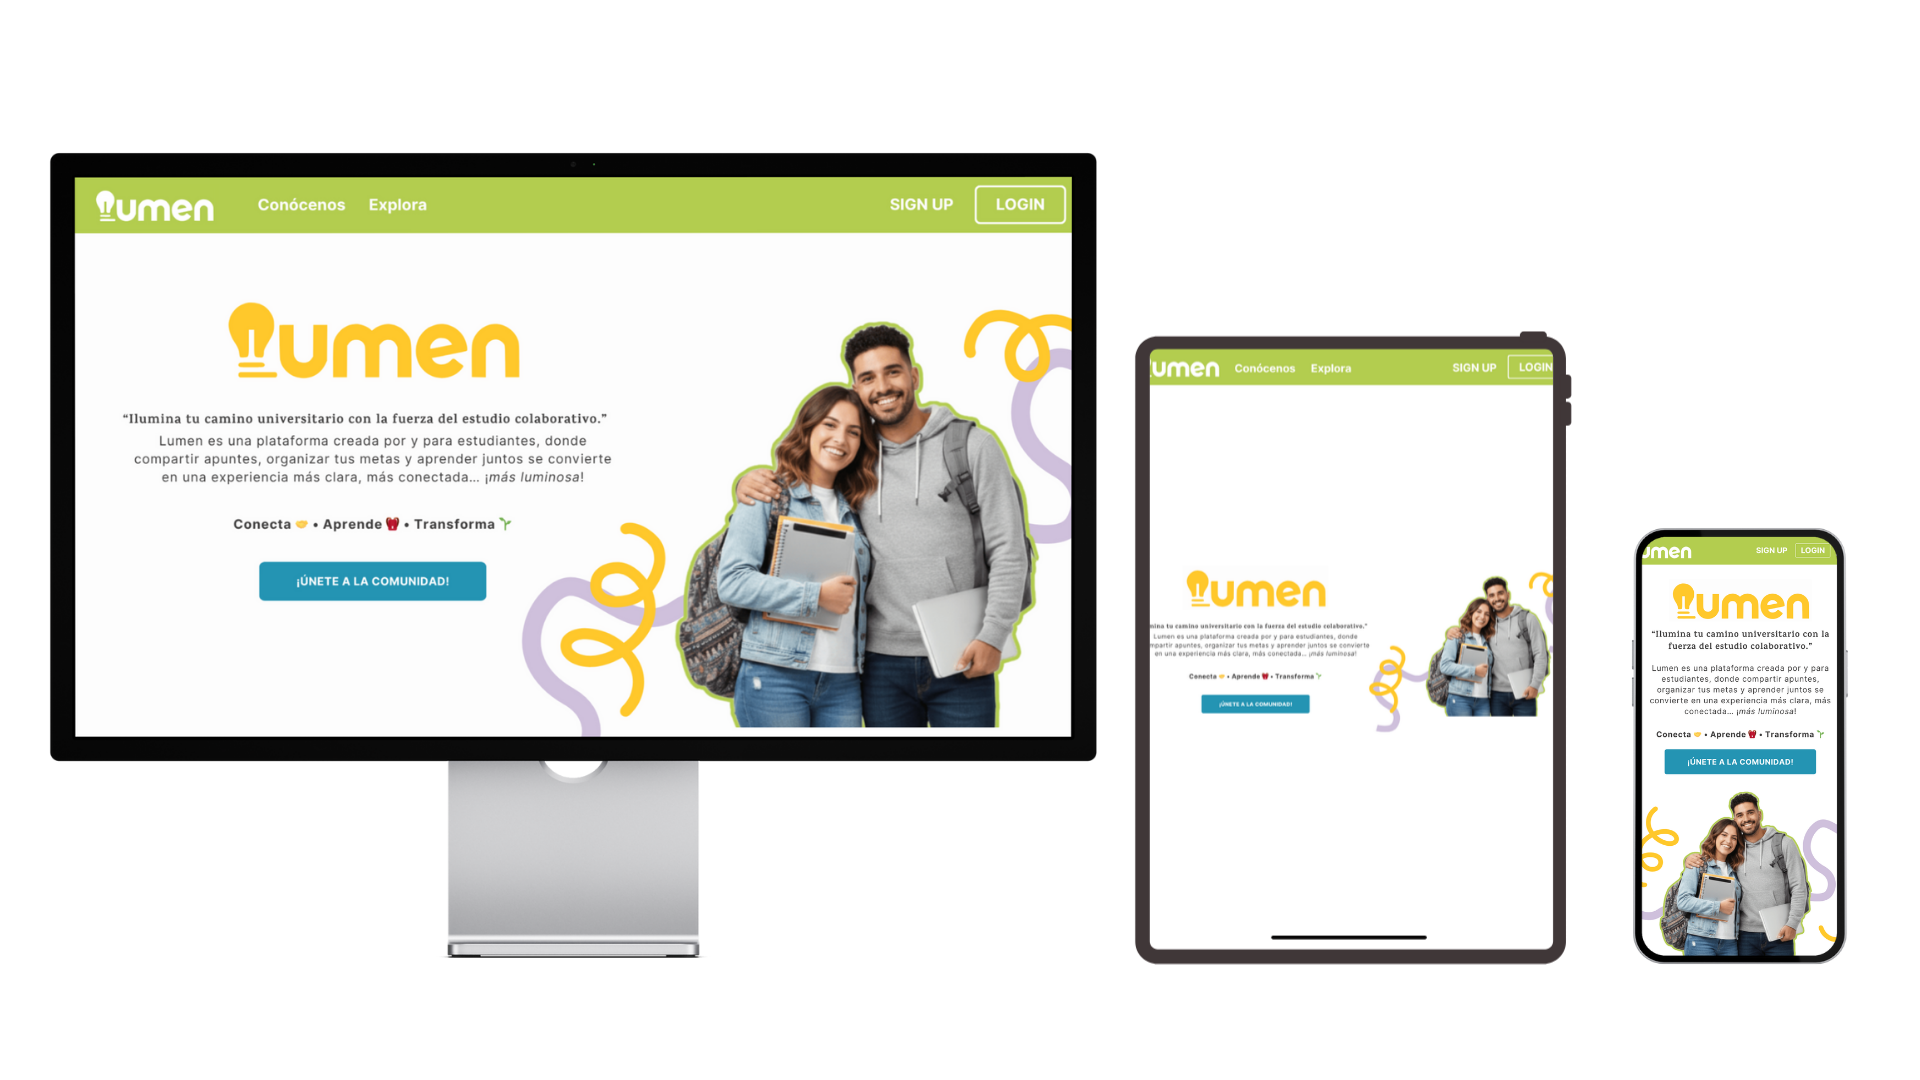
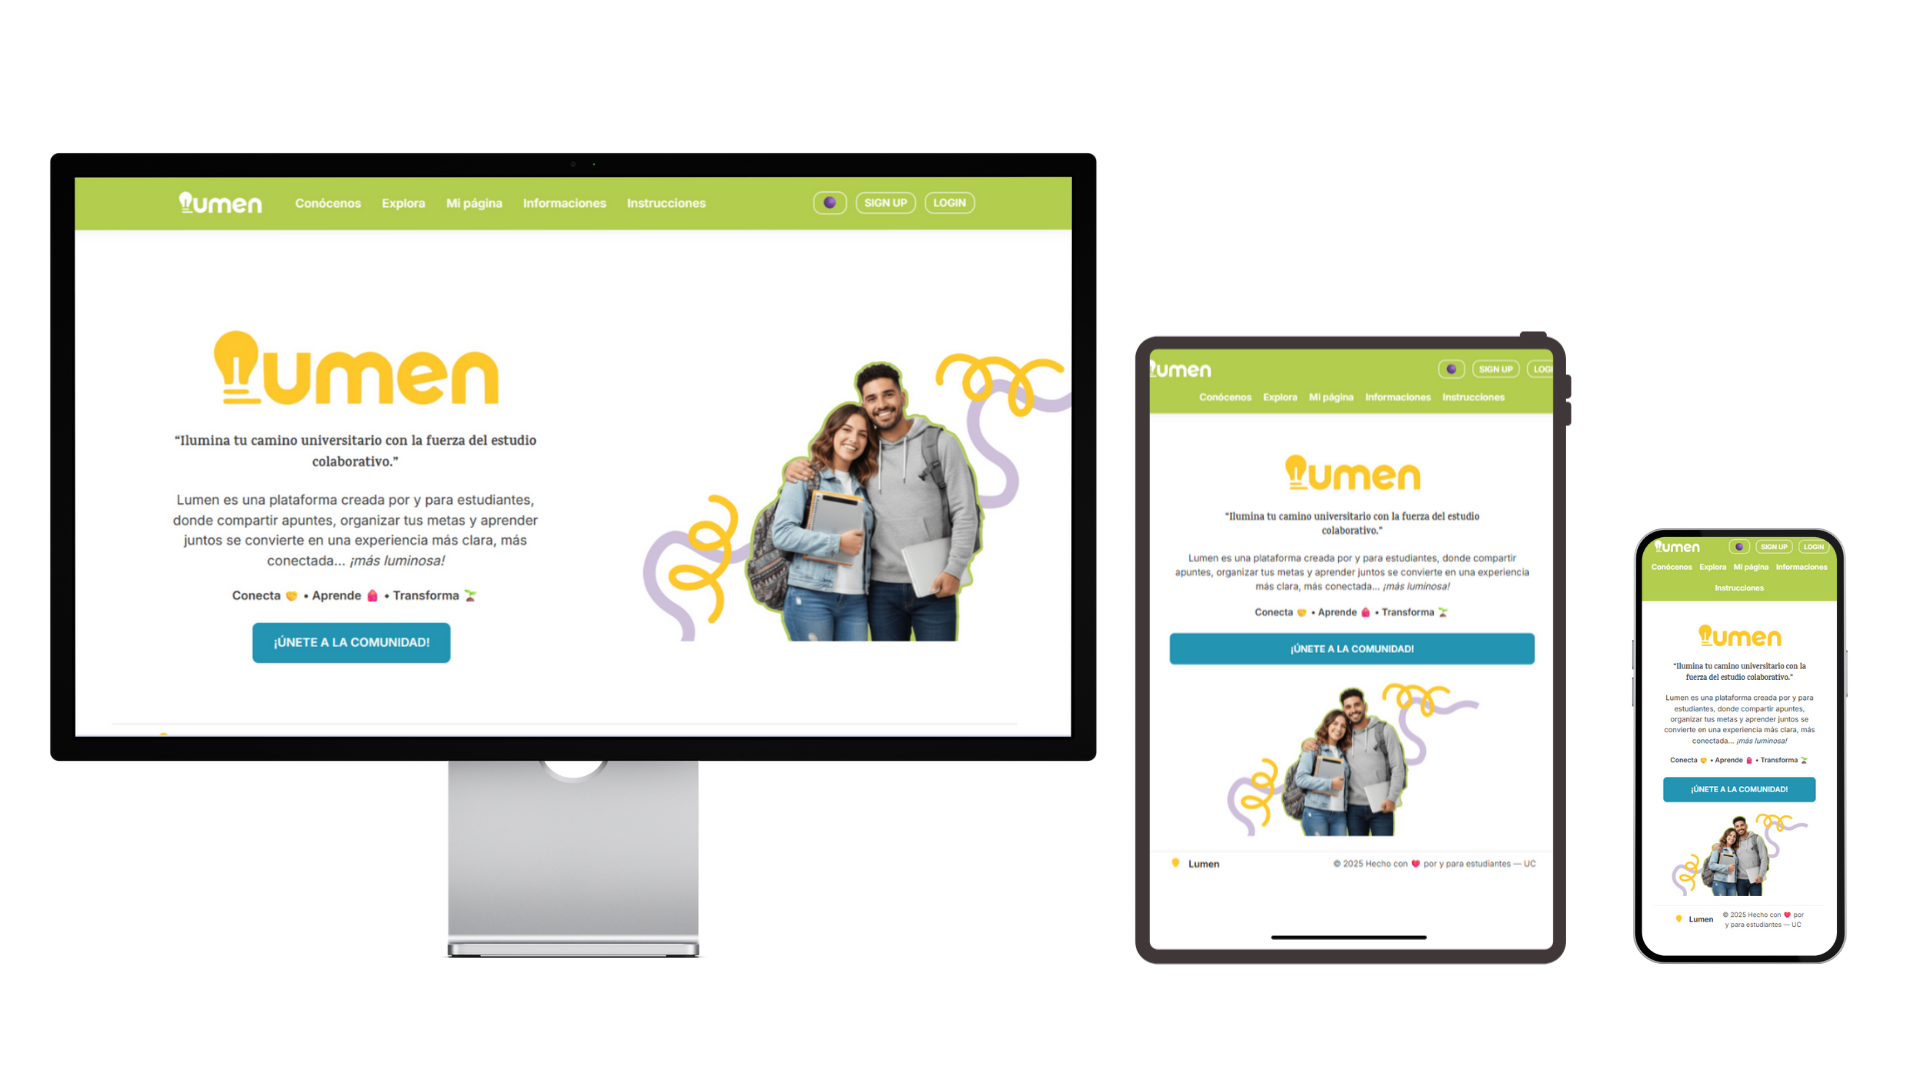
docs(README): update mockups in different dimensions of the coded main views

diff --git a/README.md b/README.md
@@ -1,7 +1,7 @@
 # E0 💫 - FRONTEND
 * Grupo CDJ: Constanza Vera, Daniela Muñoz y Justo García.
 
-## Enlace página web 
+## Enlace página web 🧩
 https://lumenuc.netlify.app
 
 ## Descripción general 💭
@@ -62,12 +62,13 @@ En Lumen existen tres tipos de usuarios:
 ![Paleta de colores de alertas](assets/Design/AlertColors.png)
 ![Tipografías](assets/Design/Typography.png)
 
-### 🔍 Vistas principales
+### 🔍 Vistas principales [programadas]
 ![Mockup1](assets/Views/Mockups(1).png)
 ![Mockup2](assets/Views/Mockups(2).png)
 ![Mockup3](assets/Views/Mockups(3).png)
 ![Mockup4](assets/Views/Mockups(4).png)
 ![Mockup5](assets/Views/Mockups(5).png)
+![Mockup6](assets/Views/Mockups(6).png)
 
 ### 👀 Logo
 ![Isologo](assets/Isologo.png)
@@ -120,14 +121,20 @@ En Lumen existen tres tipos de usuarios:
 #### Mi página [programado]
 ![Ejemplo de aplicación](assets/Views/6.png)
 
-#### Mis archivos [mockups]
+#### Mis archivos [hechos en canva]
 ![Ejemplo de aplicación](assets/Views/PaginasPrincipalesPC(4).png)
 
 ![Ejemplo de aplicación](assets/Views/ventanasemergentes(2).png)
+*Este es el único de esta sección que está programado.
+
 ![Ejemplo de aplicación](assets/Views/ventanasemergentes(3).png)
+
 ![Ejemplo de aplicación](assets/Views/ventanasemergentes(4).png)
+
 ![Ejemplo de aplicación](assets/Views/ventanasemergentes(5).png)
+
 ![Ejemplo de aplicación](assets/Views/ventanasemergentes(6).png)
+
 ![Ejemplo de aplicación](assets/Views/ventanasemergentes(7).png)
 
 #### Informaciones [programado]
